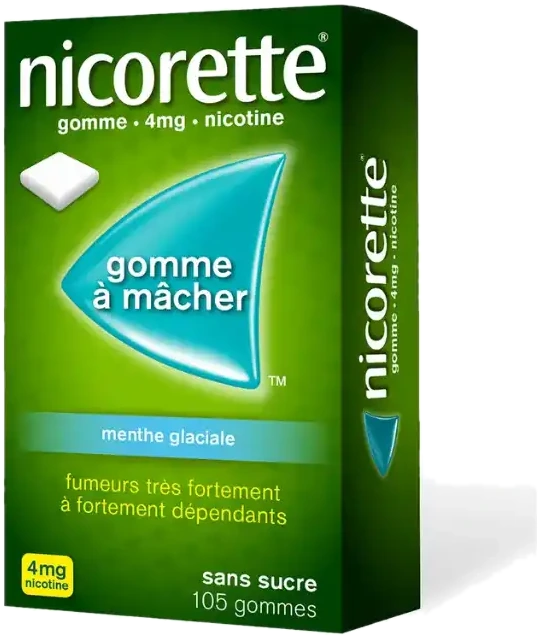
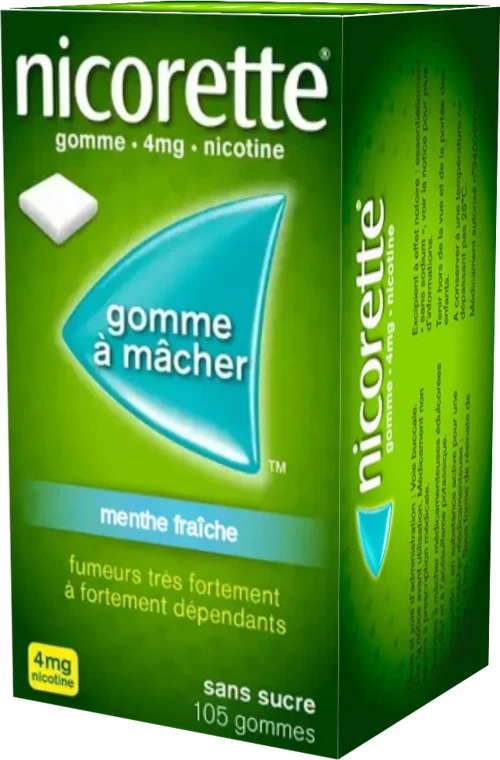
Arôme : Menthe fraîche (produit réellement vendu) partout
- Textes, titre, SEO, JSON-LD, panier et message WhatsApp : « Menthe
  fraîche » au lieu de « Menthe glaciale ».
- Face avant de la boîte 3D : bandeau d'arôme retouché (« menthe
  fraîche ») ; image 3/4 (vignettes, partage) régénérée depuis la boîte
  3D corrigée, fond transparent.
- CLAUDE.md : produit, prix et posologie de référence.

Claude-Session: https://claude.ai/code/session_018qQefGZwUcEoghcZp2RfGH

diff --git a/index.html b/index.html
@@ -3,8 +3,8 @@
 <head>
 <meta charset="utf-8">
 <meta name="viewport" content="width=device-width, initial-scale=1, viewport-fit=cover">
-<title>Nicorette® gomme 4 mg au Maroc · Menthe glaciale | Nico Shield</title>
-<meta name="description" content="Gommes Nicorette® 4 mg Menthe glaciale pour arrêter de fumer, boîte de 105 gommes. Livraison partout au Maroc, paiement à la livraison, conseil WhatsApp en darija.">
+<title>Nicorette® gomme 4 mg au Maroc · Menthe fraîche | Nico Shield</title>
+<meta name="description" content="Gommes Nicorette® 4 mg Menthe fraîche pour arrêter de fumer, boîte de 105 gommes. Livraison partout au Maroc, paiement à la livraison, conseil WhatsApp en darija.">
 <link rel="canonical" href="https://www.nicoshield.ma/">
 <meta name="robots" content="index, follow">
 <meta name="theme-color" content="#F5EFE3" media="(prefers-color-scheme: light)">
@@ -13,7 +13,7 @@
 <meta property="og:locale" content="fr_MA">
 <meta property="og:site_name" content="Nico Shield">
 <meta property="og:title" content="L'envie passe. Vous, vous tenez. · Nicorette® livré au Maroc">
-<meta property="og:description" content="Gommes Nicorette® 4 mg Menthe glaciale. Paiement à la livraison partout au Maroc.">
+<meta property="og:description" content="Gommes Nicorette® 4 mg Menthe fraîche. Paiement à la livraison partout au Maroc.">
 <meta property="og:url" content="https://www.nicoshield.ma/">
 <meta property="og:image" content="https://www.nicoshield.ma/assets/box-4mg-front.webp">
 <meta name="twitter:card" content="summary_large_image">
@@ -21,7 +21,7 @@
 <link rel="preload" as="image" href="assets/box-face-front.webp" type="image/webp" fetchpriority="high">
 <link rel="preconnect" href="https://fonts.googleapis.com"><link rel="preconnect" href="https://fonts.gstatic.com" crossorigin>
 <link rel="stylesheet" href="https://fonts.googleapis.com/css2?family=Bricolage+Grotesque:opsz,wght@12..96,650;12..96,800&family=Instrument+Sans:wght@400;600&family=JetBrains+Mono:wght@500&family=Noto+Kufi+Arabic:wght@700&display=swap">
-<script type="application/ld+json">{"@context":"https://schema.org","@graph":[{"@type":"Organization","@id":"https://www.nicoshield.ma/#org","name":"Nico Shield","url":"https://www.nicoshield.ma/"},{"@type":"Product","name":"Nicorette® gomme à mâcher 4 mg Menthe glaciale, 105 gommes","image":"https://www.nicoshield.ma/assets/box-4mg-front.webp","brand":{"@type":"Brand","name":"Nicorette"},"description":"Gomme à mâcher médicamenteuse à la nicotine 4 mg, sans sucre, goût menthe glaciale, boîte de 105 gommes.","offers":{"@type":"AggregateOffer","priceCurrency":"MAD","lowPrice":"500","highPrice":"1500","offerCount":"3","availability":"https://schema.org/InStock","seller":{"@id":"https://www.nicoshield.ma/#org"}}},{"@type":"FAQPage","mainEntity":[{"@type":"Question","name":"Comment commander ?","acceptedAnswer":{"@type":"Answer","text":"Choisissez vos produits, remplissez le formulaire et envoyez la commande sur WhatsApp. Vous payez en espèces à la livraison."}},{"@type":"Question","name":"Le 4 mg est-il fait pour moi ?","acceptedAnswer":{"@type":"Answer","text":"Le 4 mg est indiqué pour les fumeurs très fortement à fortement dépendants, en général plus de 20 cigarettes par jour. En dessous, demandez conseil à votre pharmacien."}},{"@type":"Question","name":"Combien de gommes par jour ?","acceptedAnswer":{"@type":"Answer","text":"Au début, 8 à 12 gommes par jour, puis on réduit progressivement jusqu'à 1 ou 2. Jamais plus de 15 gommes par jour."}}]}]}</script>
+<script type="application/ld+json">{"@context":"https://schema.org","@graph":[{"@type":"Organization","@id":"https://www.nicoshield.ma/#org","name":"Nico Shield","url":"https://www.nicoshield.ma/"},{"@type":"Product","name":"Nicorette® gomme à mâcher 4 mg Menthe fraîche, 105 gommes","image":"https://www.nicoshield.ma/assets/box-4mg-front.webp","brand":{"@type":"Brand","name":"Nicorette"},"description":"Gomme à mâcher médicamenteuse à la nicotine 4 mg, sans sucre, goût menthe fraîche, boîte de 105 gommes.","offers":{"@type":"AggregateOffer","priceCurrency":"MAD","lowPrice":"500","highPrice":"1500","offerCount":"3","availability":"https://schema.org/InStock","seller":{"@id":"https://www.nicoshield.ma/#org"}}},{"@type":"FAQPage","mainEntity":[{"@type":"Question","name":"Comment commander ?","acceptedAnswer":{"@type":"Answer","text":"Choisissez vos produits, remplissez le formulaire et envoyez la commande sur WhatsApp. Vous payez en espèces à la livraison."}},{"@type":"Question","name":"Le 4 mg est-il fait pour moi ?","acceptedAnswer":{"@type":"Answer","text":"Le 4 mg est indiqué pour les fumeurs très fortement à fortement dépendants, en général plus de 20 cigarettes par jour. En dessous, demandez conseil à votre pharmacien."}},{"@type":"Question","name":"Combien de gommes par jour ?","acceptedAnswer":{"@type":"Answer","text":"Au début, 8 à 12 gommes par jour, puis on réduit progressivement jusqu'à 1 ou 2. Jamais plus de 15 gommes par jour."}}]}]}</script>
 <style>
 :root{
   --paper:#F5EFE3; --surface:#FFFCF6; --sunk:#ECE4D4; --ink:#0B1F1A; --muted:#55645F; --line:#E0D6C3;
@@ -573,7 +573,7 @@ button{font:inherit;color:inherit}
     <div class="hero__copy">
       <span class="darija"><i>🤝</i><b>صافي، هادي آخر كارو</b><span>« C'est la dernière. »</span></span>
       <h1 class="h1"><span class="line"><span>L'envie passe.</span></span><span class="line"><span><em>Vous, vous tenez.</em></span></span></h1>
-      <p class="hero__sub">Les gommes <strong>Nicorette® 4 mg Menthe glaciale</strong> donnent à votre corps la nicotine qu'il réclame, sans fumée. L'envie se calme, et vous réduisez semaine après semaine, jusqu'à zéro. Livrées chez vous, partout au Maroc.</p>
+      <p class="hero__sub">Les gommes <strong>Nicorette® 4 mg Menthe fraîche</strong> donnent à votre corps la nicotine qu'il réclame, sans fumée. L'envie se calme, et vous réduisez semaine après semaine, jusqu'à zéro. Livrées chez vous, partout au Maroc.</p>
       <div class="hero__ctas">
         <a class="btn btn--p" href="#offres">Commander · payer à la livraison <svg class="arr"><use href="#i-arrow"/></svg></a>
         <a class="btn btn--g" href="#calcul">Ce que la cigarette me coûte</a>
@@ -591,9 +591,9 @@ button{font:inherit;color:inherit}
       </dl>
     </div>
 
-    <div class="stage" aria-label="Boîte de Nicorette gomme 4 mg Menthe glaciale, 105 gommes">
+    <div class="stage" aria-label="Boîte de Nicorette gomme 4 mg Menthe fraîche, 105 gommes">
       <svg class="stage__zel" width="100%" height="100%" aria-hidden="true"><rect width="100%" height="100%" fill="url(#zellige)"/></svg>
-      <div class="box3d" id="box3d" role="img" aria-label="Boîte de Nicorette gomme à mâcher 4 mg Menthe glaciale, 105 gommes, qui tourne sur elle-même">
+      <div class="box3d" id="box3d" role="img" aria-label="Boîte de Nicorette gomme à mâcher 4 mg Menthe fraîche, 105 gommes, qui tourne sur elle-même">
         <div class="box3d__sh" aria-hidden="true"></div>
         <div class="box3d__spin" id="boxSpin" aria-hidden="true"><div class="box3d__in">
           <img class="f f--front" id="heroImg" src="assets/box-face-front.webp" width="432" height="800" alt="" fetchpriority="high" decoding="async">
@@ -767,7 +767,7 @@ button{font:inherit;color:inherit}
     <div class="prod__vis rv">
       <div class="prod__main">
         <div class="pframe"><div class="pflip" id="pflip">
-          <img class="pflip__f" src="assets/box-face-front.webp" width="432" height="800" loading="lazy" decoding="async" alt="Nicorette gomme 4 mg Menthe glaciale, 105 gommes, face avant">
+          <img class="pflip__f" src="assets/box-face-front.webp" width="432" height="800" loading="lazy" decoding="async" alt="Nicorette gomme 4 mg Menthe fraîche, 105 gommes, face avant">
           <img class="pflip__b" src="assets/box-face-back.webp" width="432" height="800" loading="lazy" decoding="async" alt="Dos de la boîte : indications, posologie en deux étapes, maximum 15 gommes par jour, mise en garde grossesse">
         </div></div>
         <div class="ptabs" role="group" aria-label="Voir la boîte">
@@ -794,7 +794,7 @@ button{font:inherit;color:inherit}
     <div>
       <div class="head" style="margin-bottom:1.6rem">
         <span class="eyebrow">Le produit phare</span>
-        <h2 class="h2 rv">Nicorette® gomme <em>4 mg Menthe glaciale.</em></h2>
+        <h2 class="h2 rv">Nicorette® gomme <em>4 mg Menthe fraîche.</em></h2>
         <p class="lede rv">Des gommes carrées et blanches, sous plaquettes, sans sucre. Exactement la boîte que vous recevez.</p>
       </div>
       <table class="spec rv">
@@ -986,7 +986,7 @@ button{font:inherit;color:inherit}
     amm: ""
   };
   const P = {
-    g4mg: { name: "Gomme 4 mg · Menthe glaciale", short: "4 mg Menthe glaciale", unit: "105 gommes", img: "assets/box-4mg-front.webp", price: 500 }
+    g4mg: { name: "Gomme 4 mg · Menthe fraîche", short: "4 mg Menthe fraîche", unit: "105 gommes", img: "assets/box-4mg-front.webp", price: 500 }
   };
   const TRIGGERS = {
     cafe:   ["Le café du matin", "Prenez la gomme avec le café, pas après. Le geste remplace la cigarette, et l'envie la plus forte de la journée est couverte."],

diff --git a/CLAUDE.md b/CLAUDE.md
@@ -9,6 +9,9 @@ Aperçu artifact (https://claude.ai/artifact/7qaKr4LRSiThENTokwnSs3) : il ne cha
 (`assets/xxx.webp`) pour que le script les trouve.
 
 ## Contexte métier
+- Produit unique : Nicorette® gomme 4 mg **Menthe fraîche**, boîte de 105 (7 plaquettes de 15).
+  Prix : 1 boîte 500 DH, 2 boîtes 900 DH, 4 boîtes (3 + 1 offerte) 1 500 DH ; livraison toujours offerte.
+- Posologie affichée = celle de la notice : 8 à 12 gommes/jour au début, puis réduction, 15 max/jour.
 - Marché marocain : COD dominant, confirmation WhatsApp, prix en DH, villes listées dans le formulaire.
 - Langue du site : français, avec touches de darija (script arabe) ; l'utilisateur écrit en français.
 - Produits = médicaments (nicotine) : rester factuel, pas d'allégation de guérison, garder posologie,
